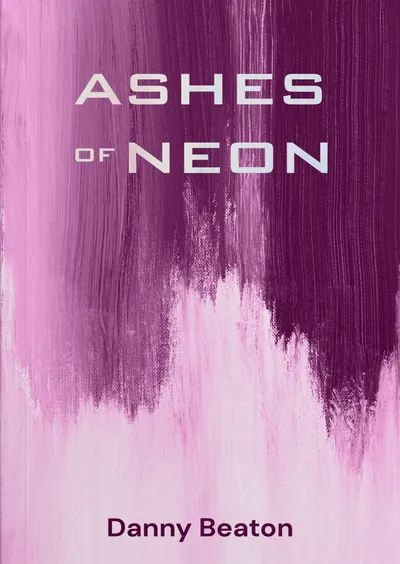
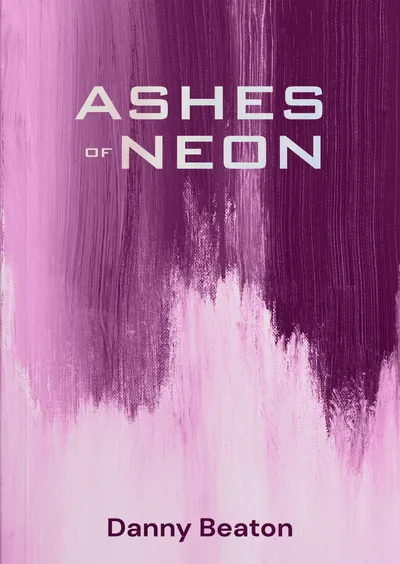
Retitle Cloud Runner; new Ashes of Neon cover; plain 'Cover for' alt text
Claude-Session: https://claude.ai/code/session_0147wkSHdLP6QVFpCZmKSfeR

Changed region(s): [[0.18, 0.1206, 0.81, 0.3316], [0.18, 0.1206, 0.42, 0.211], [0.78, 0.2411, 0.84, 0.3014]]

diff --git a/public/books.html b/public/books.html
@@ -51,7 +51,7 @@
     <h1 class="display lines"><span><span>The</span></span><span><span class="g">Books</span></span></h1>
     <p class="sub">Four stories in various stages of becoming books.</p>
     <ol class="contents" aria-label="Contents">
-      <li><a href="#mal-winter"><span class="c-title">Mal Winter and the Cloud Runners</span><span class="c-dots"></span><span class="c-stage">In revision</span></a></li>
+      <li><a href="#mal-winter"><span class="c-title">Cloud Runner</span><span class="c-dots"></span><span class="c-stage">In revision</span></a></li>
       <li><a href="#ashes-of-neon"><span class="c-title">Ashes of Neon</span><span class="c-dots"></span><span class="c-stage">Complete</span></a></li>
       <li><a href="#fable-bros-circus"><span class="c-title">The Fable Bros Circus</span><span class="c-dots"></span><span class="c-stage">In progress</span></a></li>
       <li><a href="#frontier-of-the-ravenwraiths"><span class="c-title">Frontier of the Ravenwraiths</span><span class="c-dots"></span><span class="c-stage">Early draft</span></a></li>
@@ -61,11 +61,11 @@
   <article class="book" id="mal-winter" style="--mood: #2a4170">
     <div class="wrap book-inner">
       <div class="book-cover reveal">
-        <div class="cover has-art"><img src="/assets/img/cover-mal-winter-800.webp" srcset="/assets/img/cover-mal-winter-400.webp 400w, /assets/img/cover-mal-winter-800.webp 800w" sizes="(max-width: 560px) 200px, 380px" alt="Draft cover for Mal Winter and the Cloud Runners" width="800" height="1127" loading="lazy"></div>
+        <div class="cover has-art"><img src="/assets/img/cover-mal-winter-800.webp" srcset="/assets/img/cover-mal-winter-400.webp 400w, /assets/img/cover-mal-winter-800.webp 800w" sizes="(max-width: 560px) 200px, 380px" alt="Cover for Cloud Runner" width="800" height="1127" loading="lazy"></div>
       </div>
       <div class="book-text">
         <span class="genre">YA fantasy</span>
-        <h2 class="head reveal">Mal Winter and the Cloud Runners</h2>
+        <h2 class="head reveal">Cloud Runner</h2>
         <p class="hook">Australia, the 1990s. When his father doesn’t wake up, Mal discovers nightmares are hungrier than anyone knows.</p>
         <span class="stamp rev">In revision</span>
       </div>
@@ -75,7 +75,7 @@
   <article class="book" id="ashes-of-neon" style="--mood: #5a1f4a">
     <div class="wrap book-inner">
       <div class="book-cover reveal">
-        <div class="cover has-art"><img src="/assets/img/cover-ashes-of-neon-800.webp" srcset="/assets/img/cover-ashes-of-neon-400.webp 400w, /assets/img/cover-ashes-of-neon-800.webp 800w" sizes="(max-width: 560px) 200px, 380px" alt="Draft cover for Ashes of Neon" width="800" height="1127" loading="lazy"></div>
+        <div class="cover has-art"><img src="/assets/img/cover-ashes-of-neon-800.webp" srcset="/assets/img/cover-ashes-of-neon-400.webp 400w, /assets/img/cover-ashes-of-neon-800.webp 800w" sizes="(max-width: 560px) 200px, 380px" alt="Cover for Ashes of Neon" width="800" height="1127" loading="lazy"></div>
       </div>
       <div class="book-text">
         <span class="genre">Epic sci-fi fantasy</span>
@@ -89,7 +89,7 @@
   <article class="book" id="fable-bros-circus" style="--mood: #5a4514">
     <div class="wrap book-inner">
       <div class="book-cover reveal">
-        <div class="cover has-art"><img src="/assets/img/cover-fable-bros-circus-800.webp" srcset="/assets/img/cover-fable-bros-circus-400.webp 400w, /assets/img/cover-fable-bros-circus-800.webp 800w" sizes="(max-width: 560px) 200px, 380px" alt="Draft cover for The Fable Bros Circus" width="800" height="1127" loading="lazy"></div>
+        <div class="cover has-art"><img src="/assets/img/cover-fable-bros-circus-800.webp" srcset="/assets/img/cover-fable-bros-circus-400.webp 400w, /assets/img/cover-fable-bros-circus-800.webp 800w" sizes="(max-width: 560px) 200px, 380px" alt="Cover for The Fable Bros Circus" width="800" height="1127" loading="lazy"></div>
       </div>
       <div class="book-text">
         <span class="genre">Children’s fantasy, co-written with Erin Middleton</span>
@@ -103,7 +103,7 @@
   <article class="book" id="frontier-of-the-ravenwraiths" style="--mood: #0f4a38">
     <div class="wrap book-inner">
       <div class="book-cover reveal">
-        <div class="cover has-art"><img src="/assets/img/cover-ravenwraiths-800.webp" srcset="/assets/img/cover-ravenwraiths-400.webp 400w, /assets/img/cover-ravenwraiths-800.webp 800w" sizes="(max-width: 560px) 200px, 380px" alt="Draft cover for Frontier of the Ravenwraiths" width="800" height="1127" loading="lazy"></div>
+        <div class="cover has-art"><img src="/assets/img/cover-ravenwraiths-800.webp" srcset="/assets/img/cover-ravenwraiths-400.webp 400w, /assets/img/cover-ravenwraiths-800.webp 800w" sizes="(max-width: 560px) 200px, 380px" alt="Cover for Frontier of the Ravenwraiths" width="800" height="1127" loading="lazy"></div>
       </div>
       <div class="book-text">
         <span class="genre">Flintlock romantasy</span>

diff --git a/public/index.html b/public/index.html
@@ -99,25 +99,25 @@
       </div>
       <div class="shelf-grid">
         <a class="shelf-item reveal" href="/books#mal-winter">
-          <div class="cover has-art"><img src="/assets/img/cover-mal-winter-800.webp" srcset="/assets/img/cover-mal-winter-400.webp 400w, /assets/img/cover-mal-winter-800.webp 800w" sizes="(max-width: 560px) 45vw, (max-width: 960px) 40vw, 22vw" alt="Draft cover for Mal Winter and the Cloud Runners" width="800" height="1127" loading="lazy"></div>
-          <h3>Mal Winter and the Cloud Runners</h3>
+          <div class="cover has-art"><img src="/assets/img/cover-mal-winter-800.webp" srcset="/assets/img/cover-mal-winter-400.webp 400w, /assets/img/cover-mal-winter-800.webp 800w" sizes="(max-width: 560px) 45vw, (max-width: 960px) 40vw, 22vw" alt="Cover for Cloud Runner" width="800" height="1127" loading="lazy"></div>
+          <h3>Cloud Runner</h3>
           <span class="genre">YA fantasy</span>
           <span class="stamp rev">In revision</span>
         </a>
         <a class="shelf-item reveal" href="/books#ashes-of-neon">
-          <div class="cover has-art"><img src="/assets/img/cover-ashes-of-neon-800.webp" srcset="/assets/img/cover-ashes-of-neon-400.webp 400w, /assets/img/cover-ashes-of-neon-800.webp 800w" sizes="(max-width: 560px) 45vw, (max-width: 960px) 40vw, 22vw" alt="Draft cover for Ashes of Neon" width="800" height="1127" loading="lazy"></div>
+          <div class="cover has-art"><img src="/assets/img/cover-ashes-of-neon-800.webp" srcset="/assets/img/cover-ashes-of-neon-400.webp 400w, /assets/img/cover-ashes-of-neon-800.webp 800w" sizes="(max-width: 560px) 45vw, (max-width: 960px) 40vw, 22vw" alt="Cover for Ashes of Neon" width="800" height="1127" loading="lazy"></div>
           <h3>Ashes of Neon</h3>
           <span class="genre">Epic sci-fi fantasy</span>
           <span class="stamp done">Complete</span>
         </a>
         <a class="shelf-item reveal" href="/books#fable-bros-circus">
-          <div class="cover has-art"><img src="/assets/img/cover-fable-bros-circus-800.webp" srcset="/assets/img/cover-fable-bros-circus-400.webp 400w, /assets/img/cover-fable-bros-circus-800.webp 800w" sizes="(max-width: 560px) 45vw, (max-width: 960px) 40vw, 22vw" alt="Draft cover for The Fable Bros Circus" width="800" height="1127" loading="lazy"></div>
+          <div class="cover has-art"><img src="/assets/img/cover-fable-bros-circus-800.webp" srcset="/assets/img/cover-fable-bros-circus-400.webp 400w, /assets/img/cover-fable-bros-circus-800.webp 800w" sizes="(max-width: 560px) 45vw, (max-width: 960px) 40vw, 22vw" alt="Cover for The Fable Bros Circus" width="800" height="1127" loading="lazy"></div>
           <h3>The Fable Bros Circus</h3>
           <span class="genre">Children’s fantasy</span>
           <span class="stamp">In progress</span>
         </a>
         <a class="shelf-item reveal" href="/books#frontier-of-the-ravenwraiths">
-          <div class="cover has-art"><img src="/assets/img/cover-ravenwraiths-800.webp" srcset="/assets/img/cover-ravenwraiths-400.webp 400w, /assets/img/cover-ravenwraiths-800.webp 800w" sizes="(max-width: 560px) 45vw, (max-width: 960px) 40vw, 22vw" alt="Draft cover for Frontier of the Ravenwraiths" width="800" height="1127" loading="lazy"></div>
+          <div class="cover has-art"><img src="/assets/img/cover-ravenwraiths-800.webp" srcset="/assets/img/cover-ravenwraiths-400.webp 400w, /assets/img/cover-ravenwraiths-800.webp 800w" sizes="(max-width: 560px) 45vw, (max-width: 960px) 40vw, 22vw" alt="Cover for Frontier of the Ravenwraiths" width="800" height="1127" loading="lazy"></div>
           <h3>Frontier of the Ravenwraiths</h3>
           <span class="genre">Flintlock romantasy</span>
           <span class="stamp">Early draft</span>
